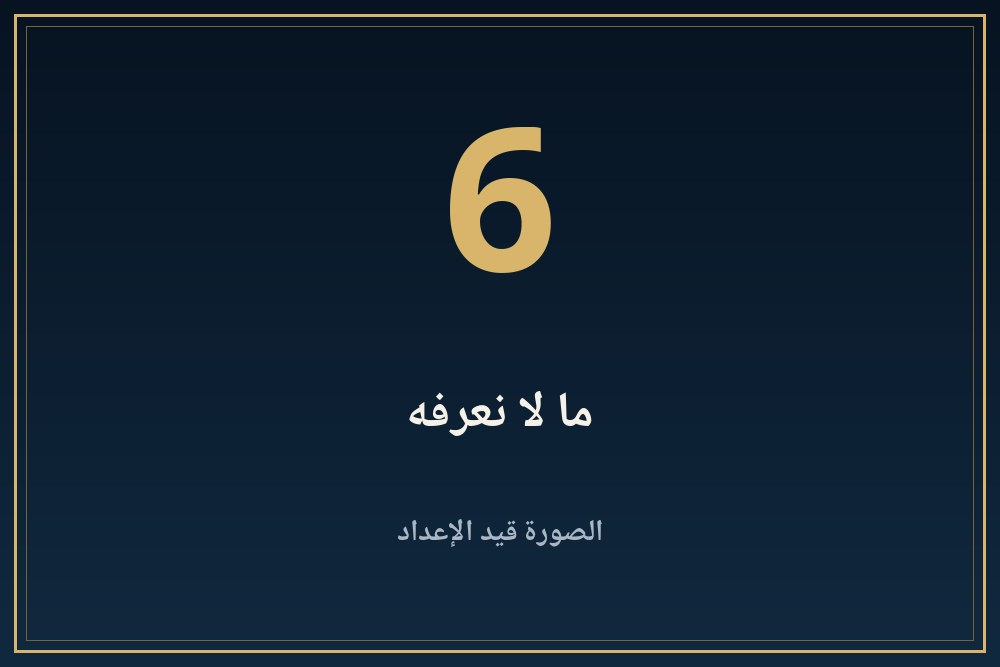
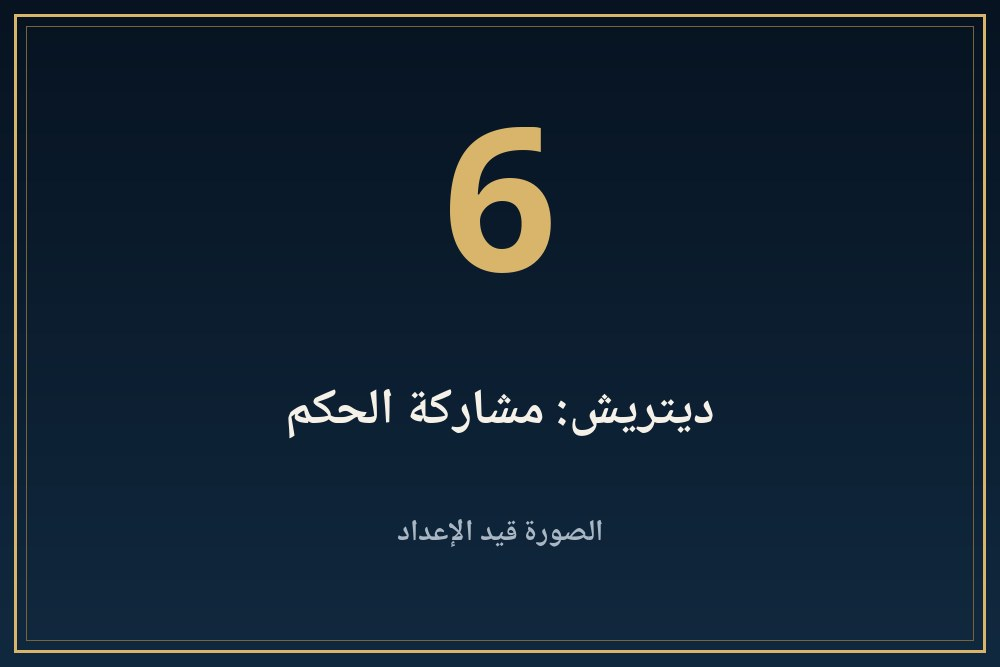
King card 106 folder 65: updated JSON

Changed region(s): [[0.279, 0.5697, 0.713, 0.6597]]

diff --git a/kings/065-smnkh-ka-ra/index.html b/kings/065-smnkh-ka-ra/index.html
@@ -324,7 +324,7 @@ html[dir=ltr] #panav.open,#pash[dir=ltr] #panav.open{border-right:0!important;bo
 <div class="row"><span class="bdg v">موثّق</span><span>مذكور في مصدر مرقّم يمكن فتحه من قسم المراجع.</span></div>
 <div class="row"><span class="bdg d">محل خلاف</span><span>الصفحة نفسها تذكر أن الباحثين أو المصادر مختلفون فيه.</span></div>
 <div class="row"><span class="bdg u">لم يُتحقق منه</span><span>الصفحة تذكر أنه من مصدر واحد ولم يُتحقق منه في مصدر ثانٍ.</span></div></div>
-<div class="band" aria-hidden="true"></div><details class="acc k1" id="s1"><summary><img class="bnr" src="banners/b01.jpg?v=1" alt="" width="1000" height="667"><span class="n">1</span><span class="t">من هو؟</span><span class="ch"></span></summary><div class="body"><button class="lbtn" type="button" disabled aria-disabled="true" style="opacity:.55;cursor:default"><svg viewBox="0 0 24 24" fill="currentColor" aria-hidden="true"><path d="M7 4.5v15a1 1 0 001.5.86l12-7.5a1 1 0 000-1.72l-12-7.5A1 1 0 007 4.5z"/></svg><span>التعليق الصوتي قريبًا</span></button><p><span class="bdg d">محل خلاف</span> يذكر نور الدين (ص723) «عنخ خبرو رع (سمنخ كا رع / نفر نفرو إتن)» حادي عشر في الأسرة الثامنة عشرة، ومدته «عام واحد بالمشاركة في الحكم». ويذكر صالح (ص308) «سمنخ كارع (عنخ خبرورع)». ويكتب إدواردز (ص9) الاسم Smenkhkara.<sup><a href="#r2">[2]</a><a href="#r3">[3]</a><a href="#r1">[1]</a></sup></p></div></details><details class="acc k2" id="s2"><summary><img class="bnr" src="banners/b02.jpg?v=1" alt="" loading="lazy" width="1000" height="667"><span class="n">2</span><span class="t">قراءة إدواردز</span><span class="ch"></span></summary><div class="body"><button class="lbtn" type="button" disabled aria-disabled="true" style="opacity:.55;cursor:default"><svg viewBox="0 0 24 24" fill="currentColor" aria-hidden="true"><path d="M7 4.5v15a1 1 0 001.5.86l12-7.5a1 1 0 000-1.72l-12-7.5A1 1 0 007 4.5z"/></svg><span>التعليق الصوتي قريبًا</span></button><p><span class="bdg d">محل خلاف</span> يقول إدواردز (ص9) إن أخناتون اختاره نحو 1336 ق.م شريكا في الحكم ووريثا، وإنه «على الأرجح» أخ لتوت عنخ آمون أو أخ غير شقيق له، وإن موت الملكين بعد نحو عامين أدى إلى تولي توت عنخ آتون. هذا رأي إدواردز وتاريخه، وهو غير تواريخ مصادرنا المصرية التي لم تعطنا رقما.<sup><a href="#r1">[1]</a></sup></p></div></details><details class="acc k3" id="s3"><summary><img class="bnr" src="banners/b03.jpg?v=1" alt="" loading="lazy" width="1000" height="667"><span class="n">3</span><span class="t">نفرتيتي حاكمة؟</span><span class="ch"></span></summary><div class="body"><button class="lbtn" type="button" disabled aria-disabled="true" style="opacity:.55;cursor:default"><svg viewBox="0 0 24 24" fill="currentColor" aria-hidden="true"><path d="M7 4.5v15a1 1 0 001.5.86l12-7.5a1 1 0 000-1.72l-12-7.5A1 1 0 007 4.5z"/></svg><span>التعليق الصوتي قريبًا</span></button><p><span class="bdg d">محل خلاف</span> يدرج نور الدين (ص723) بعد سمنخ كا رع ملكا ثانيا باسم «عنخ خبرو رع مر وع ن رع (نفر نفرو آتون: نفرتيتي)» ومدته «٤ أعوام بالمشاركة في الحكم». أما صالح (ص308) فلا يذكر نفرتيتي ملكة مستقلة في قائمته. ويصرح نور الدين بالمطابقة بين «نفر نفرو آتون» ونفرتيتي، وهو ينص في ص711 على أن قوائمه منقولة أساسا عن دودسون وهيلتون (2004). وصالح لا يذكر «نفر نفرو آتون» إطلاقا. نعرض القراءتين دون ترجيح.<sup><a href="#r3">[3]</a><a href="#r2">[2]</a></sup></p></div></details><details class="acc k4" id="s4"><summary><img class="bnr" src="banners/b04.jpg?v=1" alt="" loading="lazy" width="1000" height="667"><span class="n">4</span><span class="t">ثلاث صور</span><span class="ch"></span></summary><div class="body"><button class="lbtn" type="button" disabled aria-disabled="true" style="opacity:.55;cursor:default"><svg viewBox="0 0 24 24" fill="currentColor" aria-hidden="true"><path d="M7 4.5v15a1 1 0 001.5.86l12-7.5a1 1 0 000-1.72l-12-7.5A1 1 0 007 4.5z"/></svg><span>التعليق الصوتي قريبًا</span></button><p><span class="bdg d">محل خلاف</span> عند نور الدين: حاكمان منفصلان بالمشاركة في الحكم. عند صالح: اسم واحد هو سمنخ كا رع بين أخناتون وتوت. عند إدواردز: سمنخ كا رع شريك ووريث. المقتطفات لا تقول إن كان «نفر نفرو آتون» هو سمنخ كا رع نفسه أو شخصا آخر، فلا نحسم.<sup><a href="#r3">[3]</a><a href="#r2">[2]</a><a href="#r1">[1]</a></sup></p></div></details><details class="acc k1" id="s5"><summary><img class="bnr" src="banners/b05.jpg?v=1" alt="" loading="lazy" width="1000" height="667"><span class="n">5</span><span class="t">ما بعده</span><span class="ch"></span></summary><div class="body"><button class="lbtn" type="button" disabled aria-disabled="true" style="opacity:.55;cursor:default"><svg viewBox="0 0 24 24" fill="currentColor" aria-hidden="true"><path d="M7 4.5v15a1 1 0 001.5.86l12-7.5a1 1 0 000-1.72l-12-7.5A1 1 0 007 4.5z"/></svg><span>التعليق الصوتي قريبًا</span></button><p><span class="bdg v">موثّق</span> يقول إدواردز (ص9) إن توت عنخ آتون تولى العرش وهو في نحو التاسعة بعد موت الملكين، وكان متزوجا من عنخ إس إن بآتون، أخت ميريت آتون الصغرى.<sup><a href="#r1">[1]</a></sup></p></div></details><details class="acc k2" id="s6"><summary><img class="bnr" src="banners/b06.jpg?v=1" alt="" loading="lazy" width="1000" height="667"><span class="n">6</span><span class="t">ما لا نعرفه</span><span class="ch"></span></summary><div class="body"><button class="lbtn" type="button" disabled aria-disabled="true" style="opacity:.55;cursor:default"><svg viewBox="0 0 24 24" fill="currentColor" aria-hidden="true"><path d="M7 4.5v15a1 1 0 001.5.86l12-7.5a1 1 0 000-1.72l-12-7.5A1 1 0 007 4.5z"/></svg><span>التعليق الصوتي قريبًا</span></button><p><span class="bdg u">لم يُتحقق منه</span> لا نعرف من مقتطفاتنا قبره ولا مومياءه ولا هل هو رجل أو امرأة. ولا نعرف هل نفر نفرو آتون هي نفرتيتي حقا. ولا نذكر تواريخ صالح المشوهة.</p></div></details><details class="acc k4" id="refs"><summary><img class="bnr" src="banners/b07.jpg?v=1" alt="" loading="lazy" width="1000" height="667"><span class="n">7</span><span class="t">المراجع</span><span class="ch"></span></summary><div class="body"><button class="lbtn" type="button" disabled aria-disabled="true" style="opacity:.55;cursor:default"><svg viewBox="0 0 24 24" fill="currentColor" aria-hidden="true"><path d="M7 4.5v15a1 1 0 001.5.86l12-7.5a1 1 0 000-1.72l-12-7.5A1 1 0 007 4.5z"/></svg><span>التعليق الصوتي قريبًا</span></button><p><b>مصادر فتحتُ صفحاتها وقرأتها:</b></p><ol><li id="r1" dir="auto">I.E.S. Edwards, Tutankhamun: His Tomb and Its Treasures, The Metropolitan Museum of Art, 1976, pp. 9-10: <a dir="ltr" style="display:inline-block;overflow-wrap:anywhere" href="https://www.metmuseum.org/met-publications/tutankhamun-his-tomb-and-its-treasures" rel="noopener" target="_blank">www.metmuseum.org/met-publications/tutankhamun-his-tomb-and-its-treasures</a></li><li id="r2" dir="auto">عبد العزيز صالح، الشرق الأدنى القديم ج1 (مصر والعراق)، أرقام صفحات PDF: <a dir="ltr" style="display:inline-block;overflow-wrap:anywhere" href="https://archive.org/details/20210510_20210510_0037" rel="noopener" target="_blank">archive.org/details/20210510_20210510_0037</a></li><li id="r3" dir="auto">عبد الحليم نور الدين، آثار وحضارة مصر القديمة ج1، أرقام صفحات PDF: <a dir="ltr" style="display:inline-block;overflow-wrap:anywhere" href="https://archive.org/details/AAlexandrina-117303" rel="noopener" target="_blank">archive.org/details/AAlexandrina-117303</a></li></ol></div></details></article><aside class="abt" aria-label="عن هذه الصفحة"><h3>عن هذه الصفحة</h3><ul><li><b>المحتوى</b><span>جزء من موسوعة بر عنخ التعليمية. التواريخ والتفسيرات وفق المراجع المتاحة، وقد تختلف التفاصيل بين الدراسات.</span></li><li><b>الصور</b><span>صور هذه الصفحة أماكن حجز مؤقتة إلى أن تُضاف الصور الفنية.</span></li><li><b>الصوت</b><span>التعليق الصوتي قيد الإعداد.</span></li></ul></aside><a class="back" href="/kings/">← تصفح المزيد</a><a class="back" href="/">العودة إلى الرئيسية</a><dialog id="lb"><img alt=""><p></p><button type="button">إغلاق</button></dialog>
+<div class="band" aria-hidden="true"></div><details class="acc k1" id="s1"><summary><img class="bnr" src="banners/b01.jpg?v=1" alt="" width="1000" height="667"><span class="n">1</span><span class="t">من هو؟</span><span class="ch"></span></summary><div class="body"><button class="lbtn" type="button" disabled aria-disabled="true" style="opacity:.55;cursor:default"><svg viewBox="0 0 24 24" fill="currentColor" aria-hidden="true"><path d="M7 4.5v15a1 1 0 001.5.86l12-7.5a1 1 0 000-1.72l-12-7.5A1 1 0 007 4.5z"/></svg><span>التعليق الصوتي قريبًا</span></button><p><span class="bdg d">محل خلاف</span> يذكر نور الدين (ص723) «عنخ خبرو رع (سمنخ كا رع / نفر نفرو إتن)» حادي عشر في الأسرة الثامنة عشرة، ومدته «عام واحد بالمشاركة في الحكم». ويذكر صالح (ص308) «سمنخ كارع (عنخ خبرورع)». ويكتب إدواردز (ص9) الاسم Smenkhkara.<sup><a href="#r2">[2]</a><a href="#r3">[3]</a><a href="#r1">[1]</a></sup></p></div></details><details class="acc k2" id="s2"><summary><img class="bnr" src="banners/b02.jpg?v=1" alt="" loading="lazy" width="1000" height="667"><span class="n">2</span><span class="t">قراءة إدواردز</span><span class="ch"></span></summary><div class="body"><button class="lbtn" type="button" disabled aria-disabled="true" style="opacity:.55;cursor:default"><svg viewBox="0 0 24 24" fill="currentColor" aria-hidden="true"><path d="M7 4.5v15a1 1 0 001.5.86l12-7.5a1 1 0 000-1.72l-12-7.5A1 1 0 007 4.5z"/></svg><span>التعليق الصوتي قريبًا</span></button><p><span class="bdg d">محل خلاف</span> يقول إدواردز (ص9) إن أخناتون اختاره نحو 1336 ق.م شريكا في الحكم ووريثا، وإنه «على الأرجح» أخ لتوت عنخ آمون أو أخ غير شقيق له، وإن موت الملكين بعد نحو عامين أدى إلى تولي توت عنخ آتون. هذا رأي إدواردز وتاريخه، وهو غير تواريخ مصادرنا المصرية التي لم تعطنا رقما.<sup><a href="#r1">[1]</a></sup></p></div></details><details class="acc k3" id="s3"><summary><img class="bnr" src="banners/b03.jpg?v=1" alt="" loading="lazy" width="1000" height="667"><span class="n">3</span><span class="t">نفرتيتي حاكمة؟</span><span class="ch"></span></summary><div class="body"><button class="lbtn" type="button" disabled aria-disabled="true" style="opacity:.55;cursor:default"><svg viewBox="0 0 24 24" fill="currentColor" aria-hidden="true"><path d="M7 4.5v15a1 1 0 001.5.86l12-7.5a1 1 0 000-1.72l-12-7.5A1 1 0 007 4.5z"/></svg><span>التعليق الصوتي قريبًا</span></button><p><span class="bdg d">محل خلاف</span> يدرج نور الدين (ص723) بعد سمنخ كا رع ملكا ثانيا باسم «عنخ خبرو رع مر وع ن رع (نفر نفرو آتون: نفرتيتي)» ومدته «٤ أعوام بالمشاركة في الحكم». أما صالح (ص308) فلا يذكر نفرتيتي ملكة مستقلة في قائمته. ويصرح نور الدين بالمطابقة بين «نفر نفرو آتون» ونفرتيتي، وهو ينص في ص711 على أن قوائمه منقولة أساسا عن دودسون وهيلتون (2004). وصالح لا يذكر «نفر نفرو آتون» إطلاقا. نعرض القراءتين دون ترجيح.<sup><a href="#r3">[3]</a><a href="#r2">[2]</a></sup></p></div></details><details class="acc k4" id="s4"><summary><img class="bnr" src="banners/b04.jpg?v=1" alt="" loading="lazy" width="1000" height="667"><span class="n">4</span><span class="t">ثلاث صور</span><span class="ch"></span></summary><div class="body"><button class="lbtn" type="button" disabled aria-disabled="true" style="opacity:.55;cursor:default"><svg viewBox="0 0 24 24" fill="currentColor" aria-hidden="true"><path d="M7 4.5v15a1 1 0 001.5.86l12-7.5a1 1 0 000-1.72l-12-7.5A1 1 0 007 4.5z"/></svg><span>التعليق الصوتي قريبًا</span></button><p><span class="bdg d">محل خلاف</span> عند نور الدين: حاكمان منفصلان بالمشاركة في الحكم. عند صالح: اسم واحد هو سمنخ كا رع بين أخناتون وتوت. عند إدواردز: سمنخ كا رع شريك ووريث. المقتطفات لا تقول إن كان «نفر نفرو آتون» هو سمنخ كا رع نفسه أو شخصا آخر، فلا نحسم.<sup><a href="#r3">[3]</a><a href="#r2">[2]</a><a href="#r1">[1]</a></sup></p></div></details><details class="acc k1" id="s5"><summary><img class="bnr" src="banners/b05.jpg?v=1" alt="" loading="lazy" width="1000" height="667"><span class="n">5</span><span class="t">ما بعده</span><span class="ch"></span></summary><div class="body"><button class="lbtn" type="button" disabled aria-disabled="true" style="opacity:.55;cursor:default"><svg viewBox="0 0 24 24" fill="currentColor" aria-hidden="true"><path d="M7 4.5v15a1 1 0 001.5.86l12-7.5a1 1 0 000-1.72l-12-7.5A1 1 0 007 4.5z"/></svg><span>التعليق الصوتي قريبًا</span></button><p><span class="bdg v">موثّق</span> يقول إدواردز (ص9) إن توت عنخ آتون تولى العرش وهو في نحو التاسعة بعد موت الملكين، وكان متزوجا من عنخ إس إن بآتون، أخت ميريت آتون الصغرى.<sup><a href="#r1">[1]</a></sup></p></div></details><details class="acc k2" id="s6"><summary><img class="bnr" src="banners/b06.jpg?v=1" alt="" loading="lazy" width="1000" height="667"><span class="n">6</span><span class="t">ديتريش: مشاركة الحكم</span><span class="ch"></span></summary><div class="body"><button class="lbtn" type="button" disabled aria-disabled="true" style="opacity:.55;cursor:default"><svg viewBox="0 0 24 24" fill="currentColor" aria-hidden="true"><path d="M7 4.5v15a1 1 0 001.5.86l12-7.5a1 1 0 000-1.72l-12-7.5A1 1 0 007 4.5z"/></svg><span>التعليق الصوتي قريبًا</span></button><p><span class="bdg d">محل خلاف</span> تقول ديتريش (CRE 2023، ص100) إن نيوبري (1928) عدّ سمنخ كا رع صهر إخناتون، وإن هذا الرأي «قُبل على نطاق واسع». وتقول (ص104) إن بعض الباحثين رأوا أن نفرتيتي صارت الحاكم نفر نفرو آتون (مثل غابولدي 1998)، وإن آلن (2016) ودودسون (2009 و2020أ) يؤيدون الترتيب: سمنخ كا رع ثم نفر نفرو آتون. وتخلص (ص105) إلى أنه لا يوجد تصوير لإخناتون مع سمنخ كا رع يطابق معايير الدليل التصويري لشريكي الحكم، وأن مشاركة إخناتون ونفر نفرو آتون هي حاليا المشاركة الوحيدة في العمارنة التي لها دليل كبير ومقنع. هذا رأي ديتريش، ويقابله نور الدين (ص723) وصالح (ص308) في الأقسام السابقة. نعرض الآراء دون ترجيح.<sup><a href="#r4">[4]</a><a href="#r3">[3]</a><a href="#r2">[2]</a></sup></p></div></details><details class="acc k3" id="s7"><summary><img class="bnr" src="banners/b07.jpg?v=1" alt="" loading="lazy" width="1000" height="667"><span class="n">7</span><span class="t">ما لا نعرفه</span><span class="ch"></span></summary><div class="body"><button class="lbtn" type="button" disabled aria-disabled="true" style="opacity:.55;cursor:default"><svg viewBox="0 0 24 24" fill="currentColor" aria-hidden="true"><path d="M7 4.5v15a1 1 0 001.5.86l12-7.5a1 1 0 000-1.72l-12-7.5A1 1 0 007 4.5z"/></svg><span>التعليق الصوتي قريبًا</span></button><p><span class="bdg u">لم يُتحقق منه</span> لا نعرف من مقتطفاتنا قبره ولا مومياءه ولا هل هو رجل أو امرأة. ولا نعرف هل نفر نفرو آتون هي نفرتيتي حقا. ولا نذكر تواريخ صالح المشوهة.</p></div></details><details class="acc k4" id="refs"><summary><img class="bnr" src="banners/b08.jpg?v=1" alt="" loading="lazy" width="1000" height="667"><span class="n">8</span><span class="t">المراجع</span><span class="ch"></span></summary><div class="body"><button class="lbtn" type="button" disabled aria-disabled="true" style="opacity:.55;cursor:default"><svg viewBox="0 0 24 24" fill="currentColor" aria-hidden="true"><path d="M7 4.5v15a1 1 0 001.5.86l12-7.5a1 1 0 000-1.72l-12-7.5A1 1 0 007 4.5z"/></svg><span>التعليق الصوتي قريبًا</span></button><p><b>مصادر فتحتُ صفحاتها وقرأتها:</b></p><ol><li id="r1" dir="auto">I.E.S. Edwards, Tutankhamun: His Tomb and Its Treasures, The Metropolitan Museum of Art, 1976, pp. 9-10: <a dir="ltr" style="display:inline-block;overflow-wrap:anywhere" href="https://www.metmuseum.org/met-publications/tutankhamun-his-tomb-and-its-treasures" rel="noopener" target="_blank">www.metmuseum.org/met-publications/tutankhamun-his-tomb-and-its-treasures</a></li><li id="r2" dir="auto">عبد العزيز صالح، الشرق الأدنى القديم ج1 (مصر والعراق)، أرقام صفحات PDF: <a dir="ltr" style="display:inline-block;overflow-wrap:anywhere" href="https://archive.org/details/20210510_20210510_0037" rel="noopener" target="_blank">archive.org/details/20210510_20210510_0037</a></li><li id="r3" dir="auto">عبد الحليم نور الدين، آثار وحضارة مصر القديمة ج1، أرقام صفحات PDF: <a dir="ltr" style="display:inline-block;overflow-wrap:anywhere" href="https://archive.org/details/AAlexandrina-117303" rel="noopener" target="_blank">archive.org/details/AAlexandrina-117303</a></li><li id="r4" dir="auto">Charlotte Dietrich, «Rethinking New Kingdom Coregencies and a Case Study on the Amarna Period»، في: Current Research in Egyptology 2023 (Archaeopress)، ص93-111 (ترقيم الكتاب المطبوع)</li></ol></div></details></article><aside class="abt" aria-label="عن هذه الصفحة"><h3>عن هذه الصفحة</h3><ul><li><b>المحتوى</b><span>جزء من موسوعة بر عنخ التعليمية. التواريخ والتفسيرات وفق المراجع المتاحة، وقد تختلف التفاصيل بين الدراسات.</span></li><li><b>الصور</b><span>صور هذه الصفحة أماكن حجز مؤقتة إلى أن تُضاف الصور الفنية.</span></li><li><b>الصوت</b><span>التعليق الصوتي قيد الإعداد.</span></li></ul></aside><a class="back" href="/kings/">← تصفح المزيد</a><a class="back" href="/">العودة إلى الرئيسية</a><dialog id="lb"><img alt=""><p></p><button type="button">إغلاق</button></dialog>
 <script>(function(){var A=function(){return document.querySelectorAll("details.acc")};
 document.getElementById("all").onclick=function(){A().forEach(function(d){d.open=true})};
 document.getElementById("none").onclick=function(){A().forEach(function(d){d.open=false})};
@@ -332,7 +332,7 @@ function go(h){var e=h&&document.getElementById(h.slice(1));if(!e)return;var d=e
 document.addEventListener("click",function(e){var a=e.target.closest&&e.target.closest('a[href^="#"]');if(a){go(a.getAttribute("href"))}});
 if(location.hash)go(location.hash);
 var d=document.getElementById("lb");if(!d||!d.showModal)return;var im=d.querySelector("img"),p=d.querySelector("p");document.addEventListener("click",function(e){var t=e.target;if(t.tagName=="IMG"&&t.closest(".fig")){im.src=t.src;im.alt=t.alt;p.textContent=t.closest("figure").querySelector("figcaption").innerText;d.showModal()}else if(t==d||t.tagName=="BUTTON"&&d.contains(t)){d.close()}})})();</script><div class="pbar" id="pbar"></div><div class="pl" id="pl" role="region" aria-label="مشغّل الاستماع"><div class="in"><button class="pp" id="pp" type="button" aria-label="تشغيل"><svg viewBox="0 0 24 24" fill="currentColor" aria-hidden="true"><path d="M7 4.5v15a1 1 0 001.5.86l12-7.5a1 1 0 000-1.72l-12-7.5A1 1 0 007 4.5z"/></svg></button><div class="mid"><div class="ttl"><span id="tt">استماع</span> <i>صوت اصطناعي</i></div><input id="sk" type="range" min="0" max="1000" value="0" aria-label="موضع التشغيل"><div class="tm"><span id="cur">0:00</span><span id="dur">0:00</span></div></div><div class="ex"><button id="bk" type="button" aria-label="رجوع 10 ثوانٍ">−10</button><button id="fw" type="button" aria-label="تقدم 10 ثوانٍ">+10</button><button id="sp" class="sp" type="button" aria-label="سرعة التشغيل">1×</button><button id="cl" type="button" aria-label="إغلاق المشغّل">✕</button></div><p class="err" id="er" role="alert" hidden>تعذر تحميل الملف الصوتي. حاول لاحقًا.</p></div><div aria-live="polite" id="st" style="position:absolute;left:-9999px"></div><audio id="au" preload="none"></audio></div></main><script>(function(){
-var S={"s1": ["من هو؟", 1], "s2": ["قراءة إدواردز", 1], "s3": ["نفرتيتي حاكمة؟", 1], "s4": ["ثلاث صور", 1], "s5": ["ما بعده", 1], "s6": ["ما لا نعرفه", 1], "refs": ["المراجع", 1]},$=function(i){return document.getElementById(i)},au=$("au"),pl=$("pl"),pp=$("pp"),sk=$("sk"),P="<svg viewBox=\"0 0 24 24\" fill=\"currentColor\" aria-hidden=\"true\"><path d=\"M7 4.5v15a1 1 0 001.5.86l12-7.5a1 1 0 000-1.72l-12-7.5A1 1 0 007 4.5z\"/></svg>",Q="<svg viewBox=\"0 0 24 24\" fill=\"currentColor\" aria-hidden=\"true\"><rect x=\"5.5\" y=\"4\" width=\"4.5\" height=\"16\" rx=\"1.2\"/><rect x=\"14\" y=\"4\" width=\"4.5\" height=\"16\" rx=\"1.2\"/></svg>",cur=null,part=1,seeking=false;
+var S={"s1": ["من هو؟", 1], "s2": ["قراءة إدواردز", 1], "s3": ["نفرتيتي حاكمة؟", 1], "s4": ["ثلاث صور", 1], "s5": ["ما بعده", 1], "s6": ["ديتريش: مشاركة الحكم", 1], "s7": ["ما لا نعرفه", 1], "refs": ["المراجع", 1]},$=function(i){return document.getElementById(i)},au=$("au"),pl=$("pl"),pp=$("pp"),sk=$("sk"),P="<svg viewBox=\"0 0 24 24\" fill=\"currentColor\" aria-hidden=\"true\"><path d=\"M7 4.5v15a1 1 0 001.5.86l12-7.5a1 1 0 000-1.72l-12-7.5A1 1 0 007 4.5z\"/></svg>",Q="<svg viewBox=\"0 0 24 24\" fill=\"currentColor\" aria-hidden=\"true\"><rect x=\"5.5\" y=\"4\" width=\"4.5\" height=\"16\" rx=\"1.2\"/><rect x=\"14\" y=\"4\" width=\"4.5\" height=\"16\" rx=\"1.2\"/></svg>",cur=null,part=1,seeking=false;
 function fmt(t){if(!isFinite(t))return"0:00";var m=Math.floor(t/60),s=Math.floor(t%60);return m+":"+(s<10?"0":"")+s}
 function btns(){document.querySelectorAll(".lbtn").forEach(function(b){var on=b.dataset.s===cur&&!au.paused;b.classList.toggle("on",on);b.querySelector("span").textContent=on?"إيقاف مؤقت":(b.dataset.s===cur&&au.currentTime>1?"أكمل الاستماع":"استمع لهذا القسم");b.querySelector("svg").outerHTML=on?Q:P})}
 function ui(){var pa=au.paused;pp.innerHTML=pa?P:Q;pp.setAttribute("aria-label",pa?"تشغيل":"إيقاف مؤقت");btns()}
